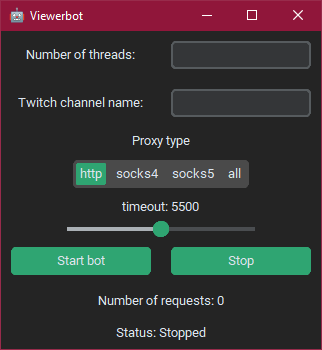
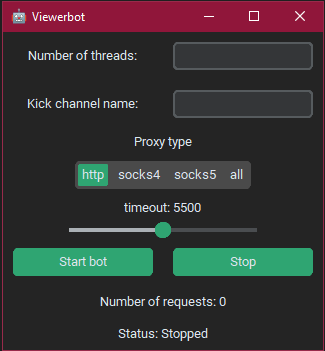
bot fixed

diff --git a/src/main.py b/src/main.py
@@ -25,7 +25,7 @@ class ViewerBot:
         self.type_of_proxy = type_of_proxy.get()
         self.proxy_imported = proxy_imported
         self.timeout = timeout
-        self.channel_url = "https://kick.com/" + channel_name
+        self.channel_url = "https://www.kick.com/" + channel_name
         self.proxyreturned1time = False 
 
     def create_session(self):
@@ -117,24 +117,25 @@ class ViewerBot:
         proxies = self.get_proxies()
         start = datetime.datetime.now()
         self.create_session()
-        with concurrent.futures.ThreadPoolExecutor(max_workers=int(self.nb_of_threads)) as executor:
-            while not self.stop_event:
-                elapsed_seconds = (datetime.datetime.now() - start).total_seconds()
+        while not self.stop_event:
+            elapsed_seconds = (datetime.datetime.now() - start).total_seconds()
 
-                for p in proxies:
-                    # Add each proxy to the all_proxies list
-                    self.all_proxies.append({'proxy': p, 'time': time.time(), 'url': ""})
+            for p in proxies:
+                # Add each proxy to the all_proxies list
+                self.all_proxies.append({'proxy': p, 'time': time.time(), 'url': ""})
 
-                for _ in range(int(self.nb_of_threads)):
-                    # Open the URL using a random proxy from the all_proxies list
-                    executor.submit(self.open_url, self.all_proxies[random.randrange(len(self.all_proxies))])
+            for i in range(0, int(self.nb_of_threads)):
+                # Open the URL using a random proxy from the all_proxies list
+                self.threaded = Thread(target=self.open_url, args=(self.all_proxies[random.randrange(len(self.all_proxies))],))
+                self.threaded.daemon = True  # This thread dies when the main thread (only non-daemon thread) exits.
+                self.threaded.start()
 
-                if elapsed_seconds >= 300 and not self.proxy_imported:
-                    # Refresh the proxies after 300 seconds (5 minutes)
-                    start = datetime.datetime.now()
-                    proxies = self.get_proxies()
-                    elapsed_seconds = 0  # Reset elapsed time
-                    self.proxyrefreshed = False
+            if elapsed_seconds >= 300 and not self.proxy_imported:
+                # Refresh the proxies after 300 seconds (5 minutes)
+                start = datetime.datetime.now()
+                proxies = self.get_proxies()
+                elapsed_seconds = 0  # Reset elapsed time
+                self.proxyrefreshed = False
 
 class ViewerBotGUI(customtkinter.CTk):
     def __init__(self):

diff --git a/src/main_just_terminal.py b/src/main_just_terminal.py
@@ -27,7 +27,7 @@ session.set_option("http-headers", {
 
 class ViewerBot:
     def __init__(self, nb_of_threads, channel_name):
-        self.channel_url = "https://kick.com/" + channel_name
+        self.channel_url = "https://www.kick.com/" + channel_name
         self.nb_of_threads = nb_of_threads
         self.request_count = 0  # initialize the counter variable
         self.all_proxies = []
